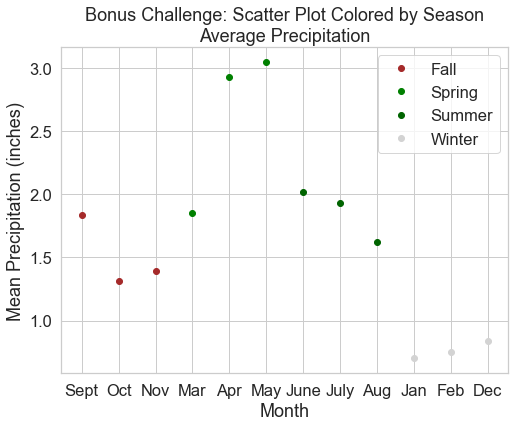
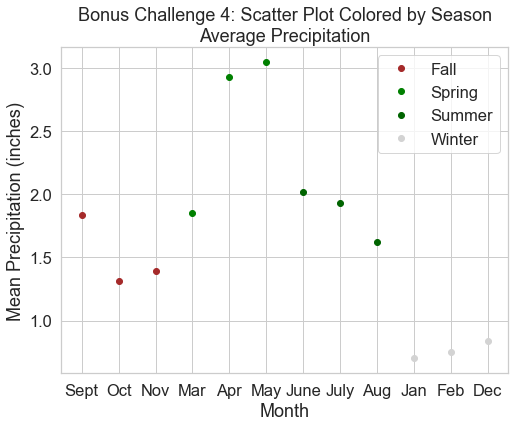
plot data using pandas

Changed region(s): [[0.1553, 0.0, 0.9631, 0.0609]]

diff --git a/_posts/courses/plot-data-in-python-textbook/03-plotting-activities/2020-06-24-activity-01-tabular-data.md b/_posts/courses/plot-data-in-python-textbook/03-plotting-activities/2020-06-24-activity-01-tabular-data.md
@@ -350,7 +350,7 @@ plt.show()
 
 <div class="notice--warning" markdown="1">
 
-## <i class="fa fa-pencil-square-o" aria-hidden="true"></i> Bonus Challenge 3: Plott Grouped Data
+## <i class="fa fa-pencil-square-o" aria-hidden="true"></i> Bonus Challenge 4: Plot Grouped Data
 
 There are differents ways to go about plotting grouped data with a legend
 using pandas. Below you will walk through an approach to plot your precip
